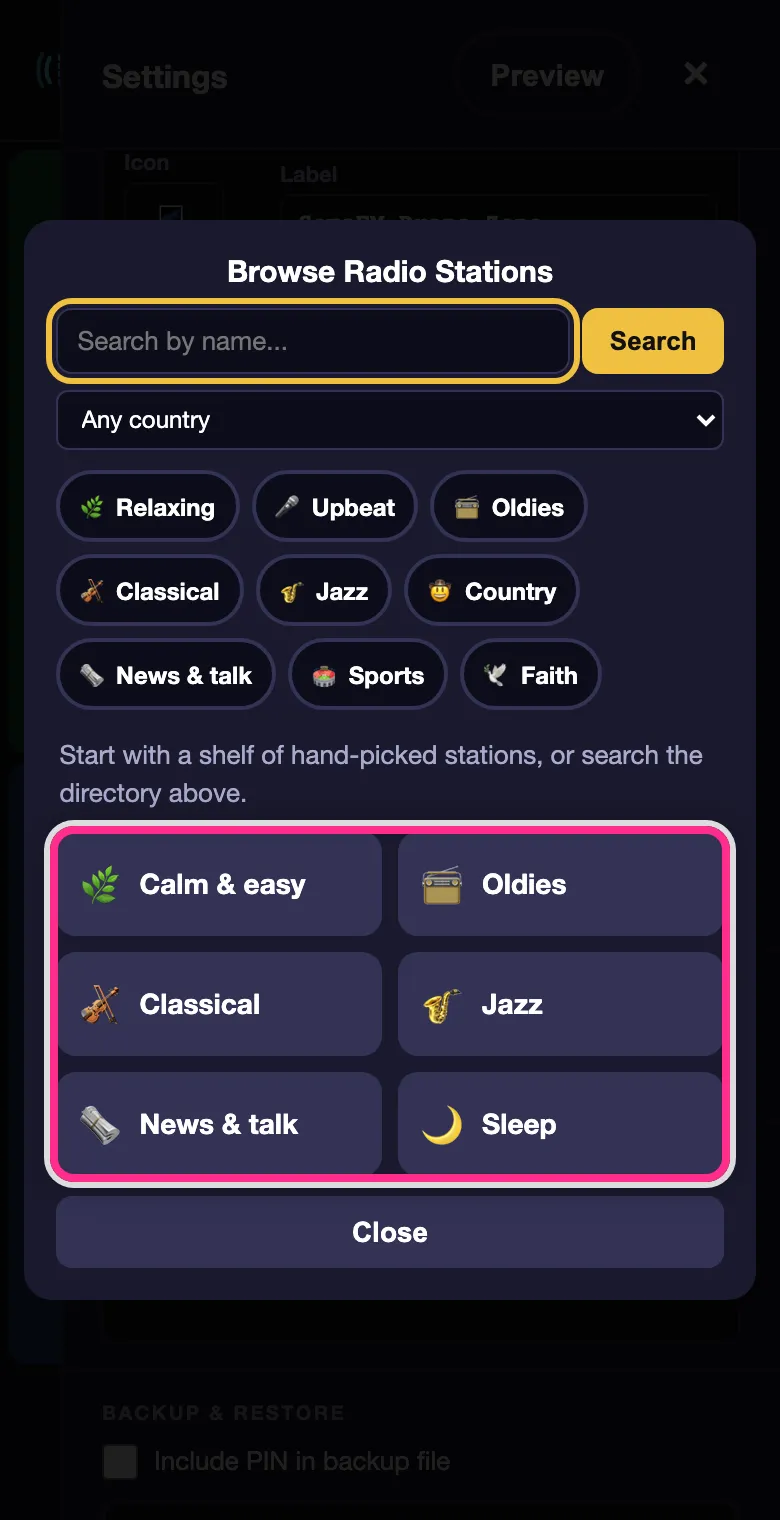
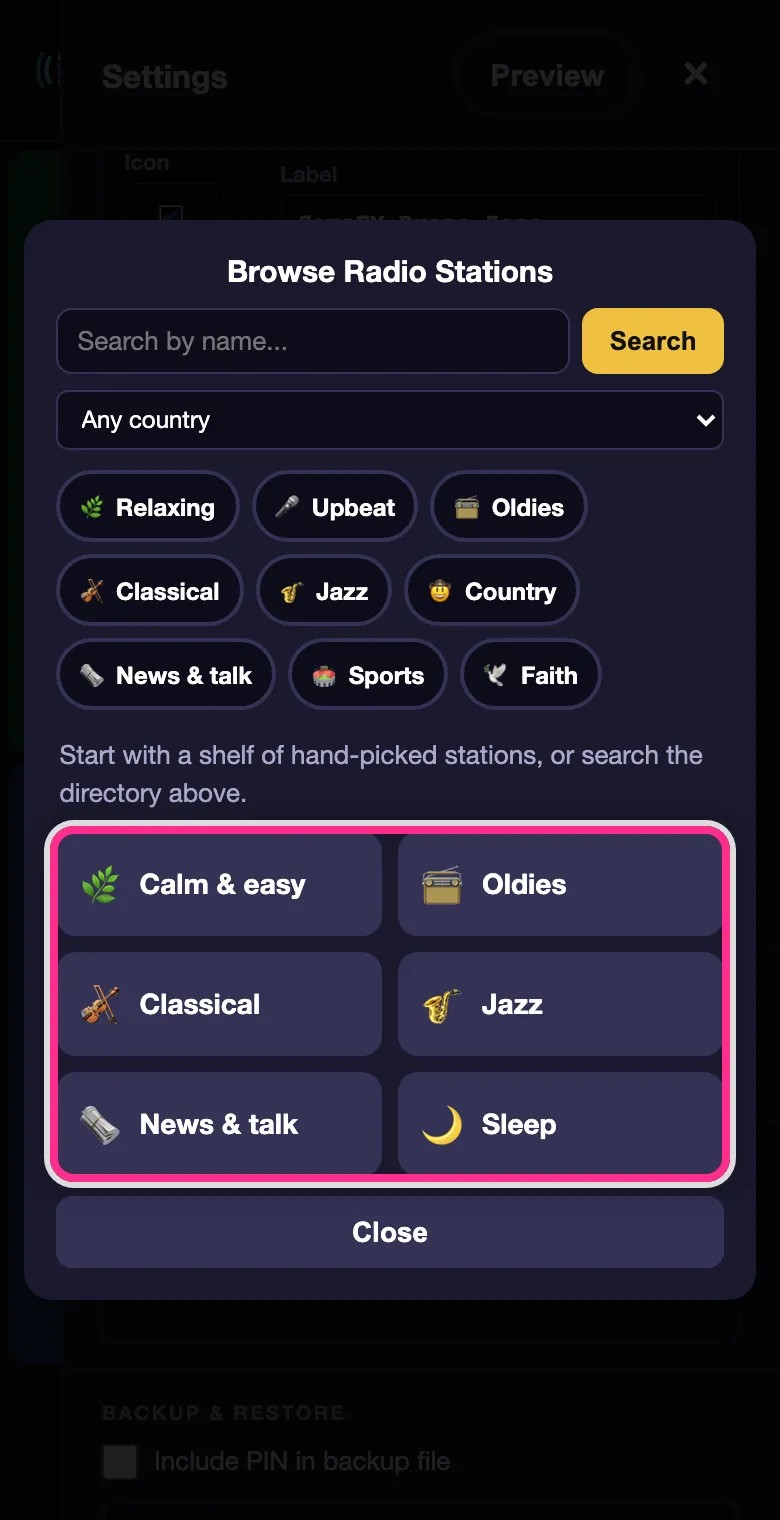
radio: sync RadioGridXL v7.15.3 (91e9ca1)

Changed region(s): [[0.0615, 0.1855, 0.7692, 0.2783]]

diff --git a/public/radio/index.html b/public/radio/index.html
@@ -1807,6 +1807,7 @@ html.is-ios .ios-hide { display: none; }
   display: flex;
   flex-direction: column;
 }
+.stream-browser-title:focus { outline: none; } /* focused by script only, never by Tab */
 .stream-browser-title {
   font-size: 15px;
   font-weight: 700;
@@ -2554,7 +2555,7 @@ html.is-ios .ios-hide { display: none; }
     <div class="s-hint" id="apply-status" role="alert" hidden></div>
     <button id="apply-btn" onclick="applySettings()">Apply &amp; Close</button>
     <button id="reset-btn" onclick="confirmReset()">Reset to Defaults</button>
-    <div id="settings-version" aria-hidden="true">RadioGridXL v7.15.2</div>
+    <div id="settings-version" aria-hidden="true">RadioGridXL v7.15.3</div>
   </aside>
 
   <!-- Shown only while previewing settings — see startPreview() -->
@@ -2564,7 +2565,7 @@ html.is-ios .ios-hide { display: none; }
   <!-- ========== STREAM BROWSER POPUP ========== -->
   <div id="stream-browser-overlay" class="stream-browser-overlay" role="dialog" aria-labelledby="sb-title" aria-modal="true">
     <div class="stream-browser">
-      <div class="stream-browser-title" id="sb-title">Browse Radio Stations</div>
+      <div class="stream-browser-title" id="sb-title" tabindex="-1">Browse Radio Stations</div>
       <div class="stream-browser-search">
         <input type="text" id="sb-search" placeholder="Search by name..." aria-label="Search stations" autocomplete="off">
         <button onclick="searchStations()">Search</button>
@@ -4375,7 +4376,10 @@ function trapFocus(e, container) {
   if (focusable.length === 0) return;
   var first = focusable[0];
   var last = focusable[focusable.length - 1];
-  if (e.shiftKey && document.activeElement === first) {
+  // Focus parked on something outside the cycle (a dialog title with
+  // tabindex=-1) would otherwise Shift+Tab straight out of the dialog.
+  var outsideCycle = focusable.indexOf(document.activeElement) === -1;
+  if (e.shiftKey && (document.activeElement === first || outsideCycle)) {
     e.preventDefault();
     last.focus();
   } else if (!e.shiftKey && document.activeElement === last) {
@@ -5558,7 +5562,10 @@ function openStreamBrowser() {
   loadRegions(); // no country: hides the region list
   showShelves();
   document.getElementById('sb-status').textContent = '';
-  document.getElementById('sb-search').focus();
+  // Focus the title, not the search box: most people start from a shelf, and a
+  // focused input pops the phone keyboard over them. A screen reader still
+  // hears the dialog's name first.
+  document.getElementById('sb-title').focus();
 }
 
 /** The mood chips, none chosen. */

diff --git a/public/radio/sw.js b/public/radio/sw.js
@@ -5,7 +5,7 @@
    it sat at v1 from 7.5.0). Keep it in lockstep with the version-bump routine.
    The server sends sw.js no-cache, so each load refetches this file and the
    install→activate purge cycle kicks in. */
-const CACHE_VERSION = 'rgxl-shell-7.15.2-d0dfb775';
+const CACHE_VERSION = 'rgxl-shell-7.15.3-acdcbecd';
 
 /* Shell assets, relative to the SW scope (the directory it's served from).
    start_url is "." so the HTML is reachable both as "./" and by filename.

diff --git a/src/content/projects/radiogridxl.md b/src/content/projects/radiogridxl.md
@@ -6,7 +6,7 @@ repo: https://github.com/Minimalistic/RadioGridXL
 url: https://marsh.city/radio/
 tags: [vanilla-js, accessibility, html5, pwa, kiosk]
 started: 2026-03-01
-updated: 2026-10-26
+updated: 2026-10-28
 image: /images/radiogridxl/page/grid.webp
 imageAlt: RadioGridXL — two large station buttons filling a dark screen
 hideTagline: true
@@ -82,6 +82,9 @@ flowchart TD
 </div>
 
 ## Updates
+
+### 2026-10-28
+Released v7.15.3. Add station used to open with the cursor in the search box, so on a phone the keyboard slid up over the shelves before you could pick one. Plenty of people never search, so now it opens on the title with the keyboard down. Tap the search box when you want it. A screen reader still hears "Browse Radio Stations" first.
 
 ### 2026-10-26
 Released v7.15.2. A new station fades in over four seconds, and pausing partway through used to let the fade keep climbing, so resuming came back at full volume. Now a pause holds the fade and resuming fades in again from silence. A quick second tap also made the app briefly think it had resumed, flashing "buffering" before it settled on paused. It stays paused now.

diff --git a/src/content/guides/radiogridxl.md b/src/content/guides/radiogridxl.md
@@ -1,7 +1,7 @@
 ---
 title: How to use RadioGridXL
 description: Open settings, change and add stations, pick a theme, and set it up for someone who just wants to press a button and hear music.
-appVersion: 7.15.2
+appVersion: 7.15.3
 ---
 
 RadioGridXL is built for the person listening: big buttons, one per station, nothing else to figure out. Everything you can change is tucked away in a hidden settings panel, so the listener never lands there by accident.
